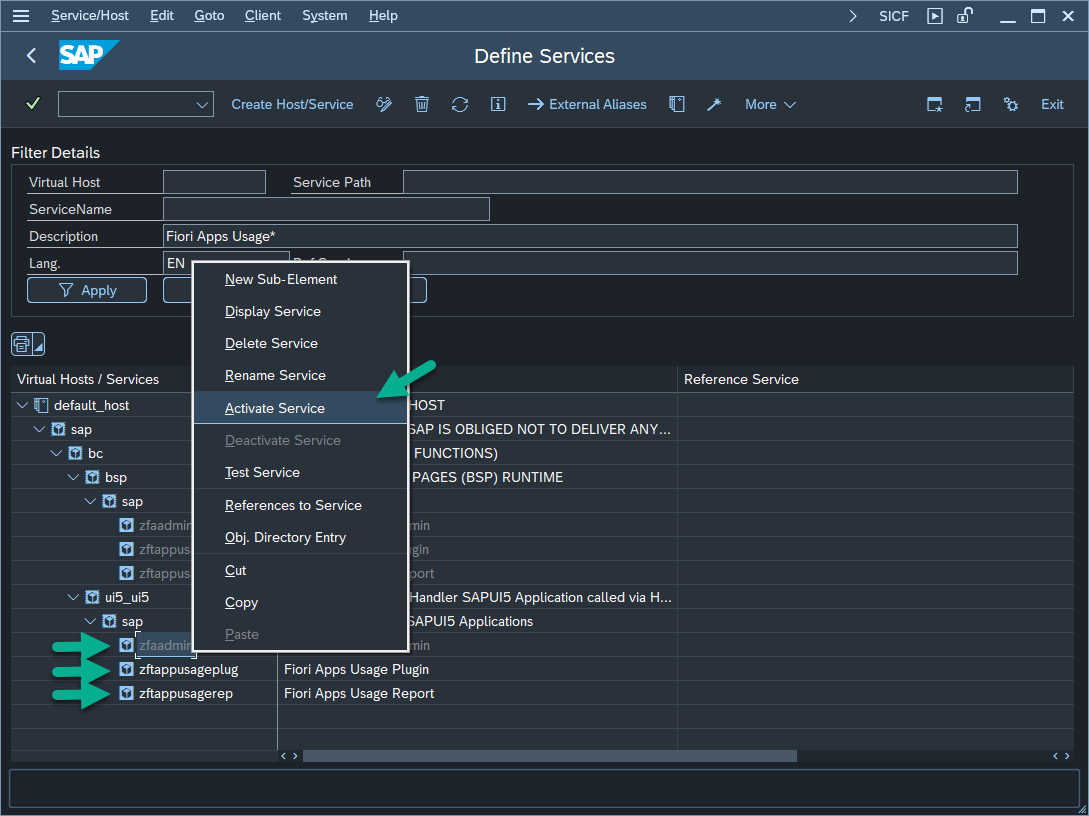
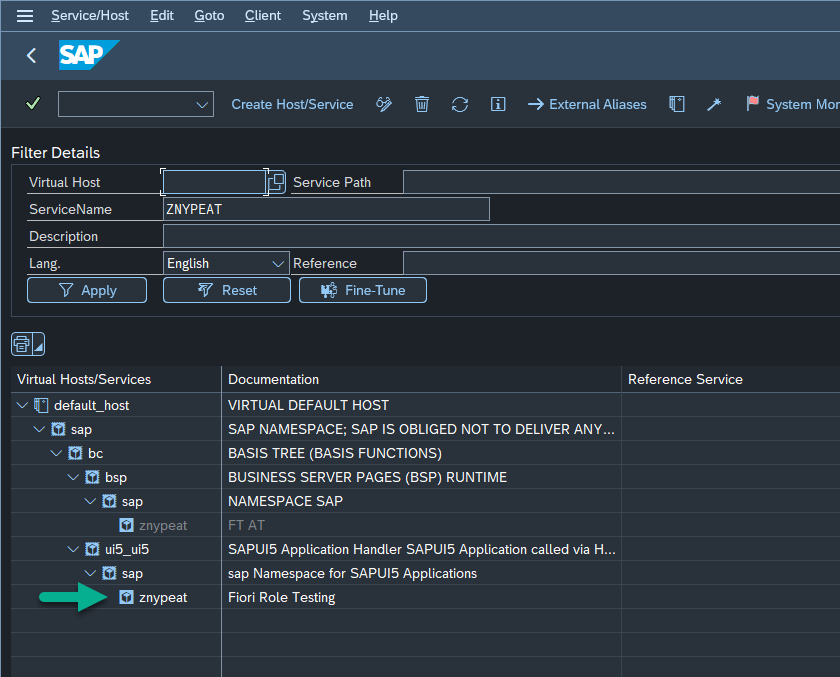
docs: installation

diff --git a/docs/installation/step-3.md b/docs/installation/step-3.md
@@ -6,7 +6,7 @@ To enable the oData service, complete the sub-steps described below.
 
 1.1. Start SAP Gui transaction **SEGW**
 
-1.2. Using the menu *Project > Open* - Open the project named **ZNYPEFACEN**. 
+1.2. Using the menu *Project > Open* - Open the project named **ZNYPEAT**. 
 
 [![](res/segw.png)](res/segw.png)
 
@@ -14,47 +14,30 @@ To enable the oData service, complete the sub-steps described below.
 
 [![](res/segw_gen.png)](res/segw_gen.png)
 
-1.4 In the same SAP Gui transaction **SEGW**
-
-1.5 Using the menu *Project > Open* - Open the project named **ZNYPEFAMAN**.
-
-1.6 Go to Change mode and choose function **Generate** 
 
 ### 2. Add the Services to Service Catalog
 
 2.1 Start SAP Gui transaction **/n/IWFND/MAINT_SERVICE**
 
-2.2 Find entry with Service name: **ZNYPEFACEN_SRV**
+2.2 Find entry with Service name: **ZNYPEAT_SRV**
 
-If the entry is present, then move to 2.6, if not, please execute the following steps:
+If the entry is present, then move to 3, if not, please execute the following steps:
 
 2.3 Click on the **Add service** button.
 
-2.4 Provide System Alias: LOCAL and External Service Name as the **ZNYPEFACEN_SRV**.
+2.4 Provide System Alias: LOCAL and External Service Name as the **ZNYPEAT_SRV**.
 
 2.5 Select the record with **ZNYPEFACEN_SRV** and click on the Add selected services button.
 
-2.6 In the same SAP Gui transaction **/n/IWFND/MAINT_SERVICE**
-
-2.7 Find the entry with Service name: **ZNYPEFAMAN_SRV**
-
-If the entry is present, then move to sub Step 3 ("Add system alias to ICF node"), if not, please execute the following steps:
-
-2.8 Click on the **Add service** button.
-
-2.9 Provide System Alias: LOCAL and External Service Name as the **ZNYPEFAMAN_SRV**.
-
-2.10 Select the record with **ZNYPEFAMAN_SRV** and click on the Add selected services button.
-
 ### 3. Add system alias to ICF node
 
-3.1 In SAP Gui transaction **/n/IWFND/MAINT_SERVICE**, chose **ZNYPEFACEN_SRV**
+3.1 In SAP Gui transaction **/n/IWFND/MAINT_SERVICE**, chose **ZNYPEAT_SRV**
 
 [![](res/maint-service.png)](res/maint-service.png)
 
-3.2 If the ICF node is green and the alias is present, then steps for **ZNYPEFACEN_SVR** are completed, and you can move to point 3.5, if not, please execute the following steps:
+3.2 If the ICF node is green and the alias is present, then steps for **ZNYPEAT_SVR** are completed, and you can move to point 3.5, if not, please execute the following steps:
 
-3.3 Choose **Add system alias**, **New entry** and type "ZNYPEFACEN_SRV_0001" in *Service Doc. Identifier* and "LOCAL" in *SAP System Alias* mark **Default System** check-mark.
+3.3 Choose **Add system alias**, **New entry** and type "ZNYPEAT_SRV_0001" in *Service Doc. Identifier* and "LOCAL" in *SAP System Alias* mark **Default System** check-mark.
 
 [![](res/maint-service-alias.png)](res/maint-service-alias.png)
 
@@ -62,14 +45,6 @@ If the entry is present, then move to sub Step 3 ("Add system alias to ICF node"
 
 [![](res/maint-service-icfn.png)](res/maint-service-icfn.png)
 
-3.5 In the same SAP Gui transaction **/n/IWFND/MAINT_SERVICE**, chose **ZNYPEFAMAN_SRV**
-
-3.6 If the ICF node is green and the alias is present, then the procedure is completed, if not, please execute the following steps:
-
-3.7 Choose **Add system alias**, **New entry** and type "ZNYPEFAMAN_SRV_0001" in *Service Doc. Identifier* and "LOCAL" in *SAP System Alias* mark **Default System** check-mark.
-
-3.8 Click on **ICF node** button and from dropdown chose **Activate**
-
-3.9 Click on **Load Metadata** button
+3.5 Click on **Load Metadata** button
 
 [![](res/maint-service-meta.png)](res/maint-service-meta.png) 

diff --git a/docs/offer.md b/docs/offer.md
@@ -1,26 +1,12 @@
 ---
-<<<<<<< HEAD
-title: Get offer
-=======
-title: Contact Us
->>>>>>> 466ebb7... docs: %*
-description: Get in touch.
+title: Offer
+description: Contact for to get an offer
 nype_config:
   js_include: contact_form_action_hex contact_form_email_hex
 ---
-<<<<<<< HEAD
 # Offer Form
 
 Contact us on <span class="nype-code-button nype-show-email">`Show e-mail`</span> or fill out the form below.
-=======
-# Contact Form
-
-<<<<<<<< HEAD:docs/offer.md
-Contact us by filling out the form below.
-========
-Contact us on <span class="nype-code-button nype-show-email">`Show e-mail`</span> or fill out the form below.
->>>>>>>> 466ebb7... docs: %*:docs/contact.md
->>>>>>> 466ebb7... docs: %*
 
 <div class="nype-form-wrapper">
     <form class="nype-form" method="POST">

diff --git a/docs/installation.md b/docs/installation.md
@@ -3,7 +3,7 @@
 To install Fiori Role Testing execute the following steps:
 
 1. [Obtain and import `Fiori Role Testing` transport files](installation/step-1.md)
-2. [Activate `zftappusagerep`, `zfaadmin` and `zftappusageplug` frontend ICF nodes](installation/step-2.md)
-3. [Enable `ZNYPEFACEN_SRV` and `ZNYPEFAMAN_SRV` backend odata services](installation/step-3.md)
-4. [Assign `ZNYPE_FAMAN` and `ZNYPE_FAMEM` pfcg roles](installation/step-4.md) 
-5. [Set the parameters for activation key and log mode](installation/step-5.md)
+2. [Activate `zznypeat` frontend ICF nodes](installation/step-2.md)
+3. [Enable `ZNYPEAT_SRV` backend odata service](installation/step-3.md)
+4. [Assign `ZNYPE_FRMAN` pfcg role](installation/step-4.md) 
+

diff --git a/docs/free-offer.md b/docs/free-offer.md
@@ -1,6 +1,6 @@
 ---
-title: Get free offer
-description: Get in touch.
+title: Get an free offer
+description: Get our product for free by allowing us to feature your company name as a Fiori Role Testing customer. 
 nype_config:
   js:
     contact_form_subject: 'Fiori Role Testing: Get for free request'
@@ -8,8 +8,7 @@ nype_config:
 ---
 # Free Offer Form
 
-!!! info
-    Read more about what is needed [to get Fiori Role Testing for free](get-for-free.md).
+Get our product for free by allowing us to feature your company name as a Fiori Tracker customer. 
 
 Contact us on <span class="nype-code-button nype-show-email">`Show e-mail`</span> or fill out the form below.
 

diff --git a/docs/installation/step-2.md b/docs/installation/step-2.md
@@ -8,11 +8,8 @@ From SAP Gui run the transaction **SICF** and choose **Execute**
  
 In the tree of services for path Path: `/default_host/sap/bc/ui5_ui5/sap/`, use right click and choose **Activate** for each of teh following services:
 
-`zftappusagerep`
+`znypeat`
 
-`zfaadmin`
-
-`zftappusageplug` 
 
  [![](res/sicf-activate.png)](res/sicf-activate.png)
 
